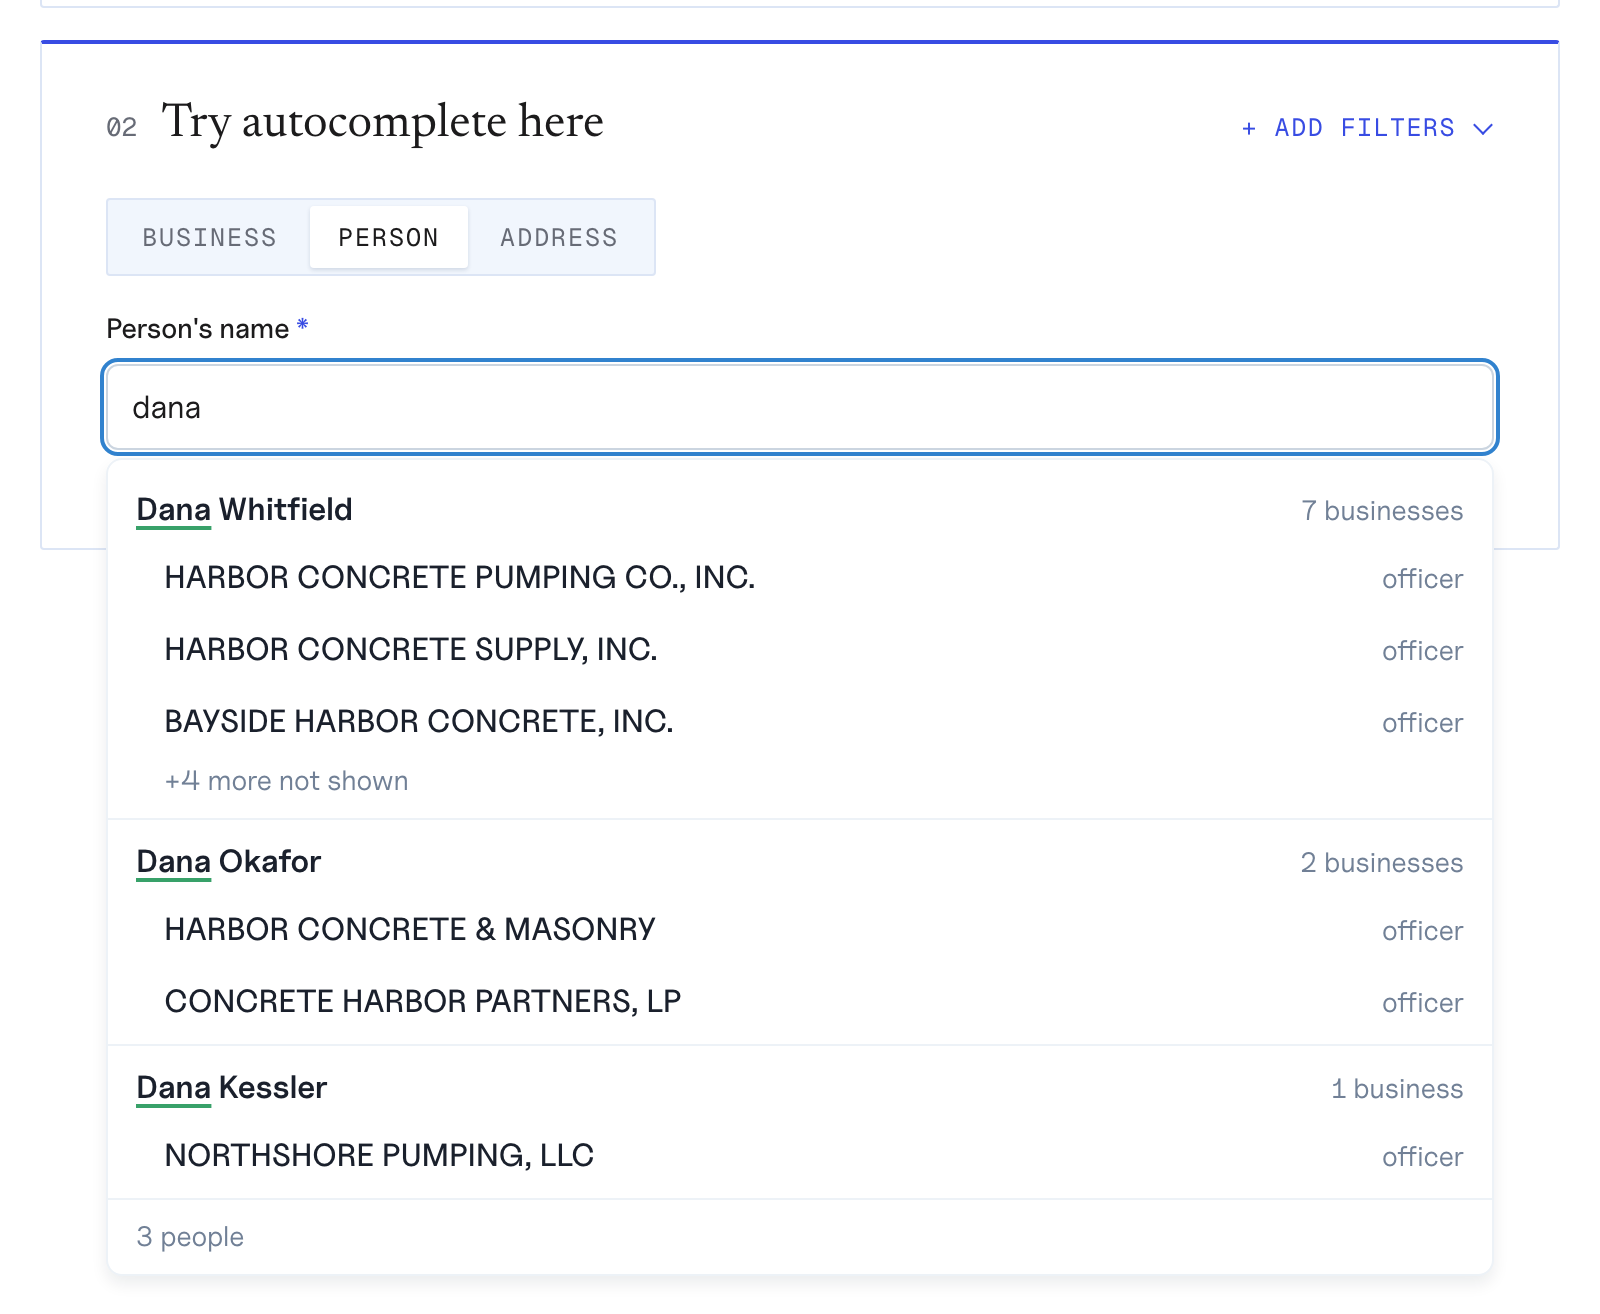
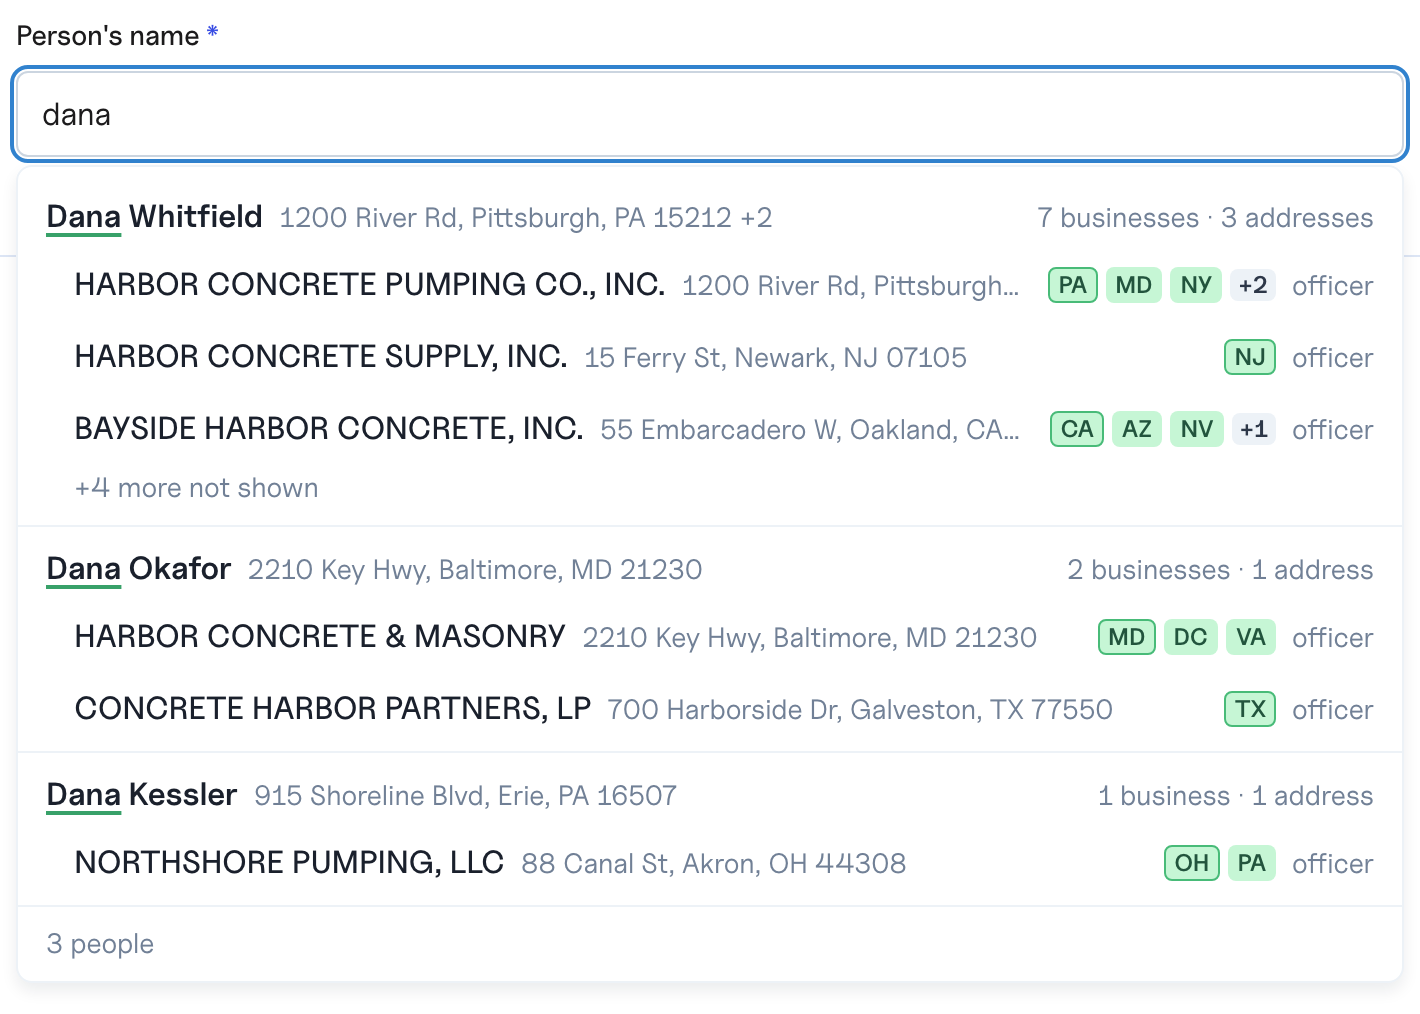
Show the new person and address rows in the demo doc
The two screenshots are retaken from the demo's made-up data: a person
with their first address, their counts and a line per business with its
address, states and role, and an address with its counts and the role
each business holds it in. The doc says the Components fold edits the
row of the search the form is on, with what it lists and what can be
picked, and that the exported configuration is that search's.

diff --git a/docs/demo.md b/docs/demo.md
@@ -116,9 +116,9 @@ business is a pick. A pick stays where it was made: the field takes the
 person's name or the address, and a line under it names the business picked,
 until you edit the field.
 
-![Searching by person: each person with their businesses](images/demo-person.png)
+![Searching by person: each person with their first address, their counts and their businesses](images/demo-person.png)
 
-![Searching by address: how many businesses are filed there](images/demo-address.png)
+![Searching by address: how many businesses and people are there, and each business](images/demo-address.png)
 
 The filters each search can carry, where the session's scope allows them (on
 Business an officer or agent's name, the states the business is registered
@@ -224,7 +224,13 @@ overflow, a spread of structures, one on a name with no suffix and one not
 known, an address, officers with a +N, a registered agent, the count), so
 every knob can be judged before a keystroke; type a name and the real rows
 take their place. On Person and Address the made-up rows are people and
-addresses, each with its businesses, as many as Rows asks for. The rows pretend "harbor concr" was typed, one word in full
+addresses, each with its businesses, as many as Rows asks for. The
+Components fold edits the row of the search the form is on, with a tab for
+each (Business, Person, Address) that moves the form with it. On Person and
+Address it says first what each row lists under it (a person's addresses,
+the people at an address) and what can be picked (the businesses, the row
+itself, what it lists), then draws that row's places, a field moving only
+within its own line. The rows pretend "harbor concr" was typed, one word in full
 and the next only begun, so the region shows its difference: whole word
 highlights CONCRETE, typed characters only its CONCR.
 
@@ -273,7 +279,8 @@ as you make them. A color changed from its preset's carries a reset inside its
 field, which puts back the value the last preset chosen gave it. **Your
 configuration** at the bottom is the code that reproduces the result, in a React
 tab and a CSS tab with a **Copy**: the props that differ from the defaults (the
-`layout` names only the places that differ from the SDK's), and the CSS
+`layout` names only the places that differ from the SDK's), for the search
+the form is on, and the CSS
 variables to set. Its **Reset** puts the whole panel back as it opened: the
 Light preset and every default.
 
